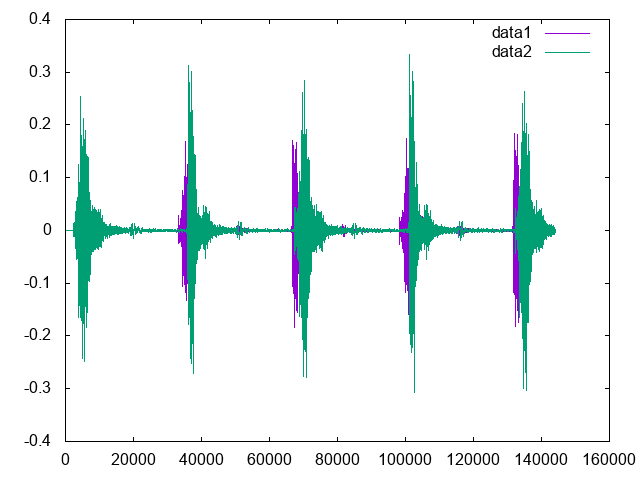
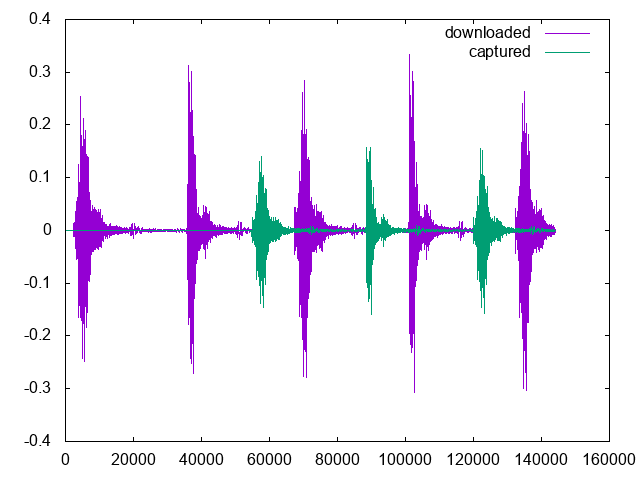
youtube-dl integration & more intervals

Changed region(s): [[0.0938, 0.1562, 0.875, 0.7812], [0.6875, 0.0625, 0.8438, 0.125]]

diff --git a/src/cross_correlation.c b/src/cross_correlation.c
@@ -12,7 +12,6 @@
 #include "../include/vidify_audiosync/global.h"
 
 
-
 // Data structure used to pass parameters to concurrent FFTW-related functions.
 struct fftw_data {
     double *real;
@@ -54,6 +53,10 @@ static void *fft(void *thread_arg) {
 // calculate the circular cross-correlation rather than the regular
 // cross-correlation.
 //
+// Note: if debugging mode is enabled, plots of each run will be saved in an
+// images directory. The titles assume that `input1` is the captured data,
+// and `input2` is the downloaded data.
+//
 // Returns the lag in frames the second data set has over the first one, with
 // a confidence between -1 and 1.
 //
@@ -83,13 +86,13 @@ int cross_correlation(double *input1, double *input2, const size_t input_length,
     FILE *gnuplot = popen("gnuplot", "w");
     fprintf(gnuplot, "set term 'png'\n");
     fprintf(gnuplot, "set output 'images/%ld_original.png'\n", input_length);
-    fprintf(gnuplot, "plot '-' with lines title 'data1', '-' with lines title 'data2'\n");
+    fprintf(gnuplot, "plot '-' with lines title 'downloaded', '-' with lines title 'captured'\n");
     for (size_t i = 0; i < input_length; ++i)
-        fprintf(gnuplot, "%f\n", data1[i]);
+        fprintf(gnuplot, "%f\n", data2[i]);
     fprintf(gnuplot, "e\n");
     // The second audio file starts at samplesDelay
     for (size_t i = 0; i < input_length; ++i)
-        fprintf(gnuplot, "%f\n", data2[i]);
+        fprintf(gnuplot, "%f\n", data1[i]);
     fprintf(gnuplot, "e\n");
     fflush(gnuplot);
     pclose(gnuplot);
@@ -207,13 +210,13 @@ int cross_correlation(double *input1, double *input2, const size_t input_length,
     gnuplot = popen("gnuplot", "w");
     fprintf(gnuplot, "set term 'png'\n");
     fprintf(gnuplot, "set output 'images/%ld.png'\n", input_length);
-    fprintf(gnuplot, "plot '-' with lines title 'data1', '-' with lines title 'data2'\n");
+    fprintf(gnuplot, "plot '-' with lines title 'downloaded', '-' with lines title 'captured'\n");
     for (size_t i = 0; i < input_length; ++i)
-        fprintf(gnuplot, "%f\n", data1[i]);
+        fprintf(gnuplot, "%f\n", data2[i]);
     fprintf(gnuplot, "e\n");
     // The second audio file starts at samplesDelay
     for (size_t i = 0; i < input_length; ++i)
-        fprintf(gnuplot, "%f\n", data2[i]);
+        fprintf(gnuplot, "%f\n", data1[i]);
     fprintf(gnuplot, "e\n");
     fflush(gnuplot);
     pclose(gnuplot);

diff --git a/src/download/linux_download.c b/src/download/linux_download.c
@@ -1,20 +1,66 @@
+#define _GNU_SOURCE
 #include <stdio.h>
 #include <stdlib.h>
 #include <pthread.h>
+#include <string.h>
 #include "../../include/vidify_audiosync/global.h"
 #include "../../include/vidify_audiosync/ffmpeg_pipe.h"
+#include "../../include/vidify_audiosync/download/linux_download.h"
+
+#define MAX_LONG_URL 4086
+#define MAX_LONG_COMMAND 4086
 
 
 void *download(void *arg) {
     struct down_data *data;
     data = (struct down_data *) arg;
 
+    char *url = malloc(sizeof(char) * MAX_LONG_URL);
+    if (url == NULL) {
+        perror("malloc");
+        goto finish;
+    }
+
+    if (get_audio_url(data->yt_title, &url) < 0) {
+        fprintf(stderr, "Could not obtain youtube url.\n");
+        goto finish;
+    }
+
     char *args[] = {
-        "ffmpeg", "-y", "-to", "15", "-i", data->url, "-ac",
-        NUM_CHANNELS_STR, "-r", SAMPLE_RATE_STR, "-f", "f64le", "pipe:1",
-        NULL
+        "ffmpeg", "-y", "-to", "15", "-i", url, "-ac", NUM_CHANNELS_STR, "-r",
+        SAMPLE_RATE_STR, "-f", "f64le", "pipe:1", NULL
     };
     read_pipe(data->th_data, args);
 
+finish:
+    if (url) free(url);
     pthread_exit(NULL);
+}
+
+
+// Obtains the audio direct link with Youtube-dl.
+int get_audio_url(char *title, char **url) {
+    int ret = -1;
+
+    // Creating the full command
+    char command[MAX_LONG_COMMAND];
+    strcpy(command, "youtube-dl -g -f bestaudio ytsearch:\"");
+    strcat(command, title);
+    strcat(command, "\"");
+
+    // Run the command and read the output
+    FILE *fp = popen(command, "r");
+    if (fp == NULL) {
+        fprintf(stderr, "Failed to run command\n" );
+        goto finish;
+    }
+    printf("Getting url 1 %s\n", command);
+    fscanf(fp, "%s", *url);
+    printf("Getting url 2\n");
+    pclose(fp);
+
+    ret = 0;
+
+finish:
+    return ret;
 }

diff --git a/src/audiosync.c b/src/audiosync.c
@@ -23,7 +23,7 @@
 #include "../include/vidify_audiosync/download/linux_download.h"
 
 
-int get_lag(char *url) {
+int get_lag(char *yt_title) {
     // The audio data.
     double *arr1, *arr2;
     // Variable used to indicate the other threads to end. Any value other
@@ -37,9 +37,10 @@ int get_lag(char *url) {
     const size_t intervals[] = {
         3 * SAMPLE_RATE,  // 144000 frames
         6 * SAMPLE_RATE,  // 288000 frames
-        9 * SAMPLE_RATE,  // 432000 frames
-        12 * SAMPLE_RATE,  // 576000 frames
-        15 * SAMPLE_RATE,  // 720000 frames
+        10 * SAMPLE_RATE,  // 432000 frames
+        15 * SAMPLE_RATE,  // 576000 frames
+        20 * SAMPLE_RATE,  // 720000 frames
+        30 * SAMPLE_RATE,  // 720000 frames
     };
     const size_t n_intervals = sizeof(intervals) / sizeof(intervals[0]);
     const size_t length = intervals[n_intervals-1];
@@ -83,7 +84,7 @@ int get_lag(char *url) {
     // Data structure passed to the download thread. It's a different type
     // because it also needs the url of the video to download.
     struct down_data down_th_params = {
-        .url = url,
+        .yt_title = yt_title,
         .th_data = &down_params
     };
     if (pthread_create(&cap_th, NULL, &capture, (void *) &cap_params) < 0) {

diff --git a/include/vidify_audiosync/global.h b/include/vidify_audiosync/global.h
@@ -14,8 +14,10 @@
 // milliseconds.
 #define FRAMES_TO_MS (1000.0 / (double) SAMPLE_RATE)
 
-// The value of the last interval in audiosync.c in seconds.
-#define MAX_SECONDS_STR "15"
+// The value of the last interval in audiosync.c in seconds. This avoids
+// having to run an itoa() for intervals[n_intervals-1] and simplifies it a
+// bit.
+#define MAX_SECONDS_STR "30"
 
 // The minimum cross-correlation coefficient accepted.
 #define MIN_CONFIDENCE 0.75
@@ -32,7 +34,7 @@ struct thread_data {
     int *end;
 };
 struct down_data {
-    char *url;
+    char *yt_title;
     struct thread_data *th_data;
 };
 

diff --git a/apps/main.py b/apps/main.py
@@ -10,15 +10,7 @@ if len(sys.argv) != 2:
           " background.")
     exit()
 
-# Obtaining an URL from a song name with youtube_dl
-ytdl_opts = {
-    'format': 'bestaudio'
-}
-with youtube_dl.YoutubeDL(ytdl_opts) as ytdl:
-    info = ytdl.extract_info(f"ytsearch:{sys.argv[1]}", download=False)
-url = info['entries'][0]['url']
-
 # After this is printed, the music should start playing in the background too
 print("Running audiosync.get_lag")
-ret = audiosync.get_lag(url)
+ret = audiosync.get_lag(sys.argv[1])
 print(f"Returned value: {ret}")

diff --git a/src/bind.c b/src/bind.c
@@ -23,11 +23,11 @@ PyMODINIT_FUNC PyInit_vidify_audiosync(void) {
 }
 
 PyObject *audiosync_get_lag(PyObject *self, PyObject *args) {
-    char *url;
-    if (!PyArg_ParseTuple(args, "s", &url)) {
+    char *yt_title;
+    if (!PyArg_ParseTuple(args, "s", &yt_title)) {
             return NULL;
     }
 
-    int ret = get_lag(url);
+    int ret = get_lag(yt_title);
     return PyLong_FromLong(ret);
 }

diff --git a/apps/main.c b/apps/main.c
@@ -5,10 +5,11 @@
 
 int main(int argc, char *argv[]) {
     if (argc != 2) {
-        printf("Usage: %s URL\n", argv[0]);
+        printf("Usage: %s \"TITLE\"\n", argv[0]);
         exit(1);
     }
 
+    printf("Running get_lag\n");
     int ret = get_lag(argv[1]);
     printf("Returned value: %d\n", ret);
 

diff --git a/src/capture/linux_capture.c b/src/capture/linux_capture.c
@@ -3,6 +3,7 @@
 #include <pthread.h>
 #include "../../include/vidify_audiosync/global.h"
 #include "../../include/vidify_audiosync/ffmpeg_pipe.h"
+#include "../../include/vidify_audiosync/capture/linux_capture.h"
 
 
 // NOTE: for now requires to change the captured sink in pavucontrol to

diff --git a/include/vidify_audiosync/download/linux_download.h b/include/vidify_audiosync/download/linux_download.h
@@ -4,5 +4,7 @@
 
 void *download(void *);
 
+int get_audio_url(char *title, char **url);
+
 
 #endif /* _H_DOWNLOAD_ */

diff --git a/README.md b/README.md
@@ -22,6 +22,23 @@ The only exported method is `get_lag(url: str)`, which returns the displacement 
 
 There's a simple example implementation in the [example.py](https://github.com/marioortizmanero/vidify-audiosync/blob/master/examples/example.py) file.
 
+There are 2 apps to try:
+
+* `apps/main.c`: used to debug more easily. You can run it with:
+
+```shell
+mkdir build
+cd build
+mkdir images
+cmake ..
+make
+./apps/main "SONG NAME"
+```
+
+Use `-DCMAKE_BUILD_TYPE=Debug` to enable debugging and save plots into the images directory. You'll need `gnuplot` installed for that.
+
+* `apps/main.py`: the actual module usage. You can simply use `python main.py "SONG NAME"`
+
 
 ## How it works
 *I'll try to explain it as clearly as possible, since this took me a lot of effort to understand without prior knowledge about the mathematics behind it. If someone with a better understanding of the calculations performed in this module considers that the explanation could be improved, please [create an issue](https://github.com/marioortizmanero/vidify-audiosync/issues) to let me know.*
